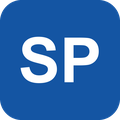
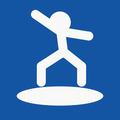
:memo: Dropping the repeated we in the meetups line

diff --git a/_includes/head/custom.html b/_includes/head/custom.html
@@ -2,25 +2,25 @@
 
 <!-- start custom head snippets -->
 
-<link rel="apple-touch-icon" sizes="57x57" href="{{ base_path }}/images/apple-touch-icon-57x57.png?v=M44lzPylqQ">
-<link rel="apple-touch-icon" sizes="60x60" href="{{ base_path }}/images/apple-touch-icon-60x60.png?v=M44lzPylqQ">
-<link rel="apple-touch-icon" sizes="72x72" href="{{ base_path }}/images/apple-touch-icon-72x72.png?v=M44lzPylqQ">
-<link rel="apple-touch-icon" sizes="76x76" href="{{ base_path }}/images/apple-touch-icon-76x76.png?v=M44lzPylqQ">
-<link rel="apple-touch-icon" sizes="114x114" href="{{ base_path }}/images/apple-touch-icon-114x114.png?v=M44lzPylqQ">
-<link rel="apple-touch-icon" sizes="120x120" href="{{ base_path }}/images/apple-touch-icon-120x120.png?v=M44lzPylqQ">
-<link rel="apple-touch-icon" sizes="144x144" href="{{ base_path }}/images/apple-touch-icon-144x144.png?v=M44lzPylqQ">
-<link rel="apple-touch-icon" sizes="152x152" href="{{ base_path }}/images/apple-touch-icon-152x152.png?v=M44lzPylqQ">
-<link rel="apple-touch-icon" sizes="180x180" href="{{ base_path }}/images/apple-touch-icon-180x180.png?v=M44lzPylqQ">
-<link rel="icon" type="image/png" href="{{ base_path }}/images/favicon-32x32.png?v=M44lzPylqQ" sizes="32x32">
-<link rel="icon" type="image/png" href="{{ base_path }}/images/android-chrome-192x192.png?v=M44lzPylqQ" sizes="192x192">
-<link rel="icon" type="image/png" href="{{ base_path }}/images/favicon-96x96.png?v=M44lzPylqQ" sizes="96x96">
-<link rel="icon" type="image/png" href="{{ base_path }}/images/favicon-16x16.png?v=M44lzPylqQ" sizes="16x16">
-<link rel="manifest" href="{{ base_path }}/images/manifest.json?v=M44lzPylqQ">
-<link rel="mask-icon" href="{{ base_path }}/images/safari-pinned-tab.svg?v=M44lzPylqQ" color="#1455a3">
-<link rel="shortcut icon" href="/images/favicon.ico?v=M44lzPylqQ">
+<link rel="apple-touch-icon" sizes="57x57" href="{{ base_path }}/images/apple-touch-icon-57x57.png?v=dancer26">
+<link rel="apple-touch-icon" sizes="60x60" href="{{ base_path }}/images/apple-touch-icon-60x60.png?v=dancer26">
+<link rel="apple-touch-icon" sizes="72x72" href="{{ base_path }}/images/apple-touch-icon-72x72.png?v=dancer26">
+<link rel="apple-touch-icon" sizes="76x76" href="{{ base_path }}/images/apple-touch-icon-76x76.png?v=dancer26">
+<link rel="apple-touch-icon" sizes="114x114" href="{{ base_path }}/images/apple-touch-icon-114x114.png?v=dancer26">
+<link rel="apple-touch-icon" sizes="120x120" href="{{ base_path }}/images/apple-touch-icon-120x120.png?v=dancer26">
+<link rel="apple-touch-icon" sizes="144x144" href="{{ base_path }}/images/apple-touch-icon-144x144.png?v=dancer26">
+<link rel="apple-touch-icon" sizes="152x152" href="{{ base_path }}/images/apple-touch-icon-152x152.png?v=dancer26">
+<link rel="apple-touch-icon" sizes="180x180" href="{{ base_path }}/images/apple-touch-icon-180x180.png?v=dancer26">
+<link rel="icon" type="image/png" href="{{ base_path }}/images/favicon-32x32.png?v=dancer26" sizes="32x32">
+<link rel="icon" type="image/png" href="{{ base_path }}/images/android-chrome-192x192.png?v=dancer26" sizes="192x192">
+<link rel="icon" type="image/png" href="{{ base_path }}/images/favicon-96x96.png?v=dancer26" sizes="96x96">
+<link rel="icon" type="image/png" href="{{ base_path }}/images/favicon-16x16.png?v=dancer26" sizes="16x16">
+<link rel="manifest" href="{{ base_path }}/images/manifest.json?v=dancer26">
+<link rel="mask-icon" href="{{ base_path }}/images/safari-pinned-tab.svg?v=dancer26" color="#1455a3">
+<link rel="shortcut icon" href="/images/favicon.ico?v=dancer26">
 <meta name="msapplication-TileColor" content="#1455a3">
-<meta name="msapplication-TileImage" content="{{ base_path }}/images/mstile-144x144.png?v=M44lzPylqQ">
-<meta name="msapplication-config" content="{{ base_path }}/images/browserconfig.xml?v=M44lzPylqQ">
+<meta name="msapplication-TileImage" content="{{ base_path }}/images/mstile-144x144.png?v=dancer26">
+<meta name="msapplication-config" content="{{ base_path }}/images/browserconfig.xml?v=dancer26">
 <meta name="theme-color" content="#ffffff">
 <link rel="stylesheet" href="{{ base_path }}/assets/css/academicons.css"/>
 

diff --git a/_pages/parallel-life.html b/_pages/parallel-life.html
@@ -39,7 +39,7 @@ author_profile: true
 <p class="page-copy">
   I'm <strong>building a community</strong> of dancers in the Bay Area
   through <a href="https://www.instagram.com/kuchipudi.meetups/" target="_blank" rel="noopener noreferrer">Kuchipudi Meetups</a>.
-  We meet to practice together, and we host workshops too. If you're interested,
+  We meet to practice together, and host workshops too. If you're interested,
   reach out!
 </p>
 
